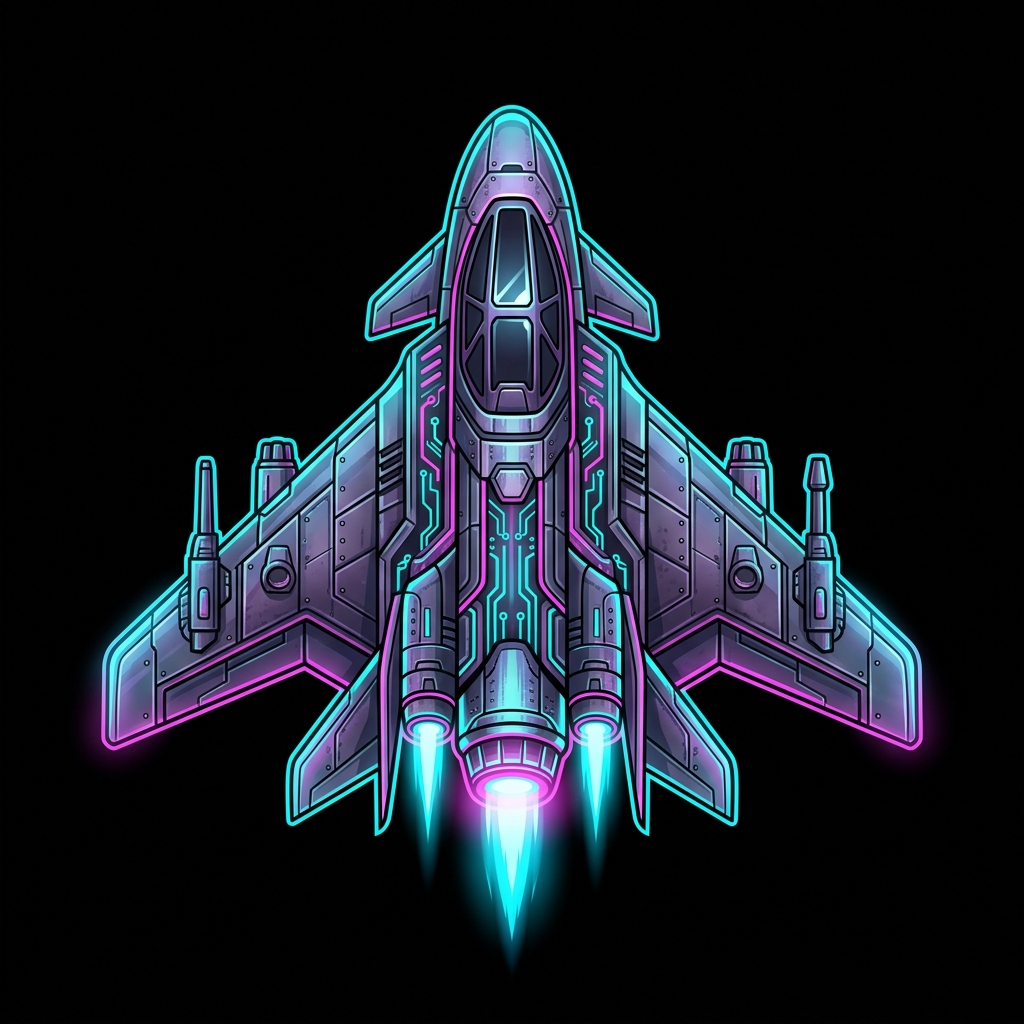
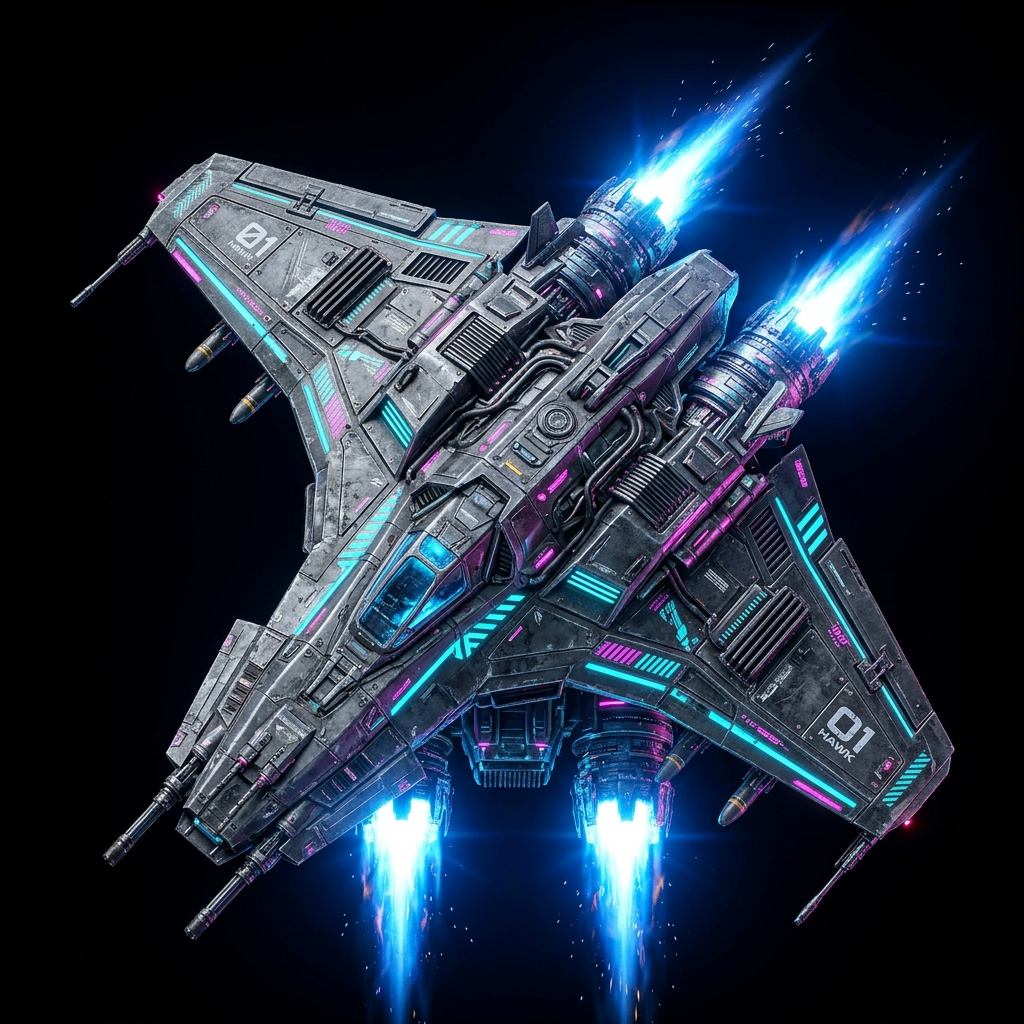
feat(space-shooter): generate ultra-premium starfighter sprite and implement automatic bounds cropping

diff --git a/space-shooter-frontend/script.js b/space-shooter-frontend/script.js
@@ -30,19 +30,54 @@ function processSpaceshipSprite() {
         
         const imgData = tempCtx.getImageData(0, 0, tempCanvas.width, tempCanvas.height);
         const data = imgData.data;
+        const width = tempCanvas.width;
+        const height = tempCanvas.height;
         
         // Remove black background (colors close to black)
         for (let i = 0; i < data.length; i += 4) {
             const r = data[i];
             const g = data[i+1];
             const b = data[i+2];
-            // If color is very dark (r, g, b all below 15)
-            if (r < 15 && g < 15 && b < 15) {
+            // If color is very dark (r, g, b all below 25)
+            if (r < 25 && g < 25 && b < 25) {
                 data[i+3] = 0; // Transparent
             }
         }
         tempCtx.putImageData(imgData, 0, 0);
-        spaceshipCanvas = tempCanvas;
+        
+        // Find crop bounding box of non-transparent pixels
+        let minX = width;
+        let maxX = 0;
+        let minY = height;
+        let maxY = 0;
+        let hasContent = false;
+        
+        for (let y = 0; y < height; y++) {
+            for (let x = 0; x < width; x++) {
+                const alpha = data[(y * width + x) * 4 + 3];
+                if (alpha > 0) {
+                    if (x < minX) minX = x;
+                    if (x > maxX) maxX = x;
+                    if (y < minY) minY = y;
+                    if (y > maxY) maxY = y;
+                    hasContent = true;
+                }
+            }
+        }
+        
+        if (hasContent) {
+            const cropW = maxX - minX + 1;
+            const cropH = maxY - minY + 1;
+            // Create final cropped canvas
+            const cropCanvas = document.createElement('canvas');
+            cropCanvas.width = cropW;
+            cropCanvas.height = cropH;
+            const cropCtx = cropCanvas.getContext('2d');
+            cropCtx.drawImage(tempCanvas, minX, minY, cropW, cropH, 0, 0, cropW, cropH);
+            spaceshipCanvas = cropCanvas;
+        } else {
+            spaceshipCanvas = tempCanvas;
+        }
     } catch (e) {
         console.warn("Failed to transparentize spaceship sprite, falling back to raw image:", e);
         spaceshipCanvas = spaceshipSprite;

diff --git a/play-space-shooter.html b/play-space-shooter.html
@@ -132,7 +132,7 @@
             <div class="play-console-wrapper">
                 <div class="play-console-holder">
                     <div class="play-console" id="playConsoleContainer">
-                        <iframe class="play-iframe" id="gameIframe" src="space-shooter-frontend/index.html?v=space_juice_v4" title="Neon Space Shooter"></iframe>
+                        <iframe class="play-iframe" id="gameIframe" src="space-shooter-frontend/index.html?v=space_juice_v5" title="Neon Space Shooter"></iframe>
                     </div>
                     <div class="console-actions">
                         <button class="fullscreen-btn" onclick="toggleFullscreen()" title="Play in Fullscreen">⛶ Fullscreen</button>

diff --git a/space-shooter-frontend/index.html b/space-shooter-frontend/index.html
@@ -418,7 +418,7 @@
     <!-- shared/audio-fx.js -->
     <script src="../shared/audio-fx.js?v=ArcadeHub_v2_AudioFix"></script>
     <script src="../shared/achievements.js"></script>
-    <script src="script.js?v=space_juice_v4"></script>
+    <script src="script.js?v=space_juice_v5"></script>
 <script>
     const wakeUpAudio = () => {
         if (window.audioFX && typeof window.audioFX.init === 'function') {

diff --git a/sw.js b/sw.js
@@ -1,4 +1,4 @@
-const CACHE_NAME = 'arcade-hub-cache-v32';
+const CACHE_NAME = 'arcade-hub-cache-v33';
 const CORE_ASSETS = [
     'index.html',
     'retro-hub.html',